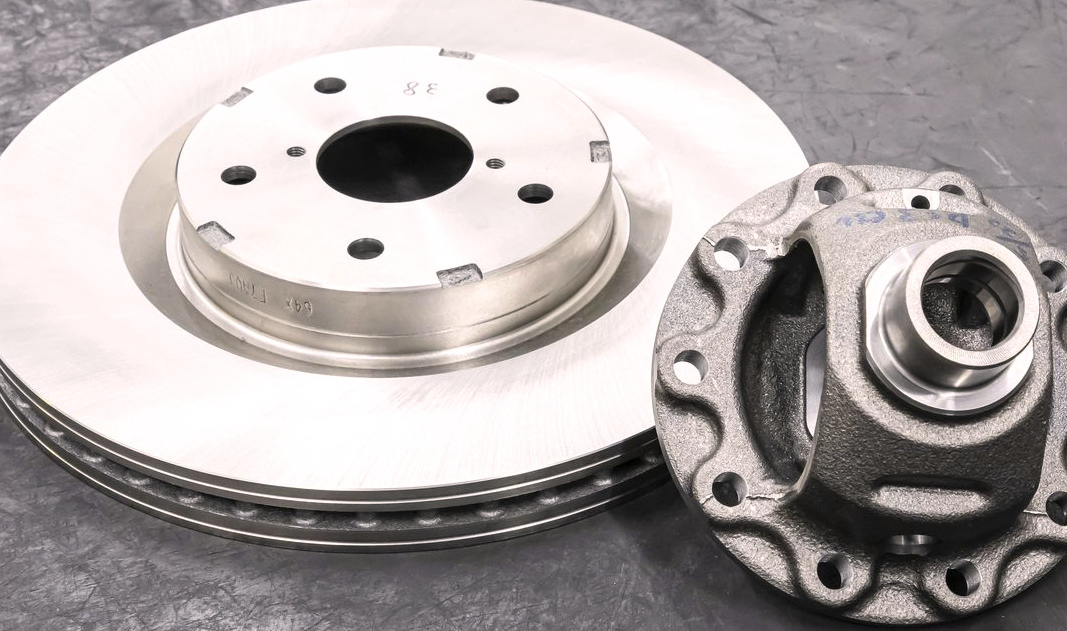
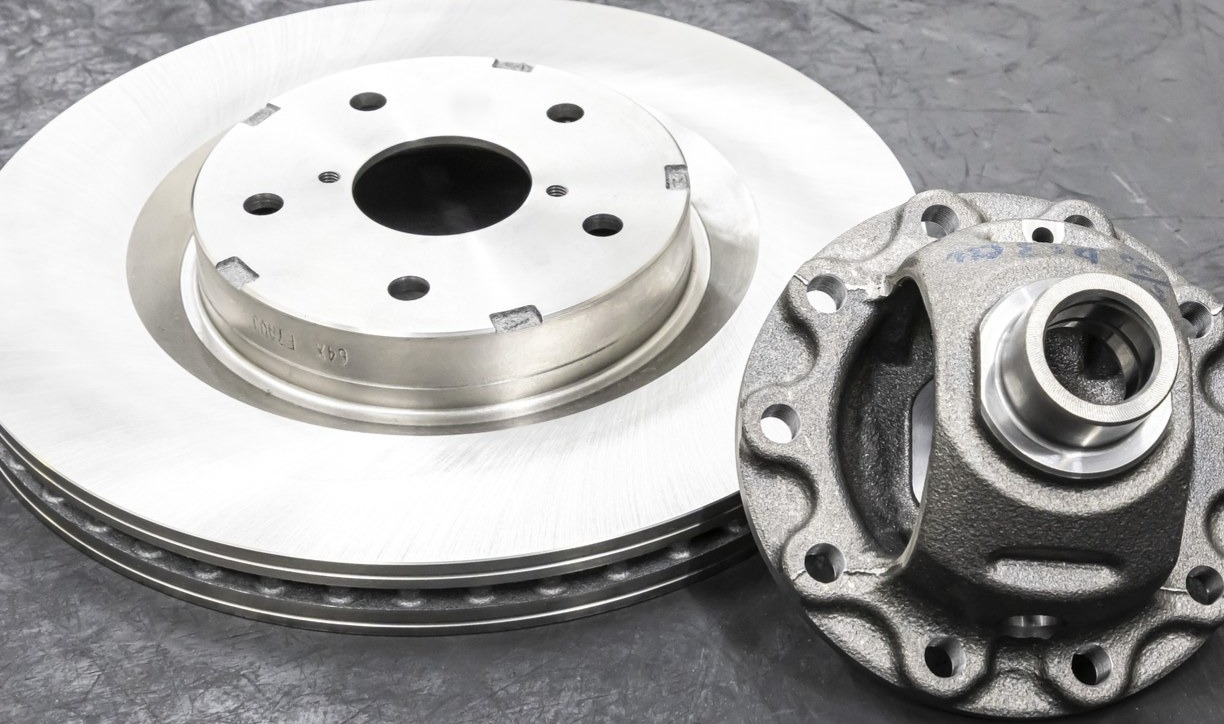
会社概要の従業員数日付を2026年4月1日に更新／トップFV visual_07を原本(_P1A0703)ベース+ぼかし版へ／採用FV fv_0703を同画像のトリミング版へ差し替え

diff --git a/company/about.html b/company/about.html
@@ -820,7 +820,7 @@ exports.init = init;
                 templateToggleAltShow = "Show password",
                 templateToggleAltHide = "Hide password",
                 isRememberEnabled = true,
[2 lines of base64/hex data omitted]
 
             // you can edit these values to customize some of the behavior of StatiCrypt
             const templateConfig = {